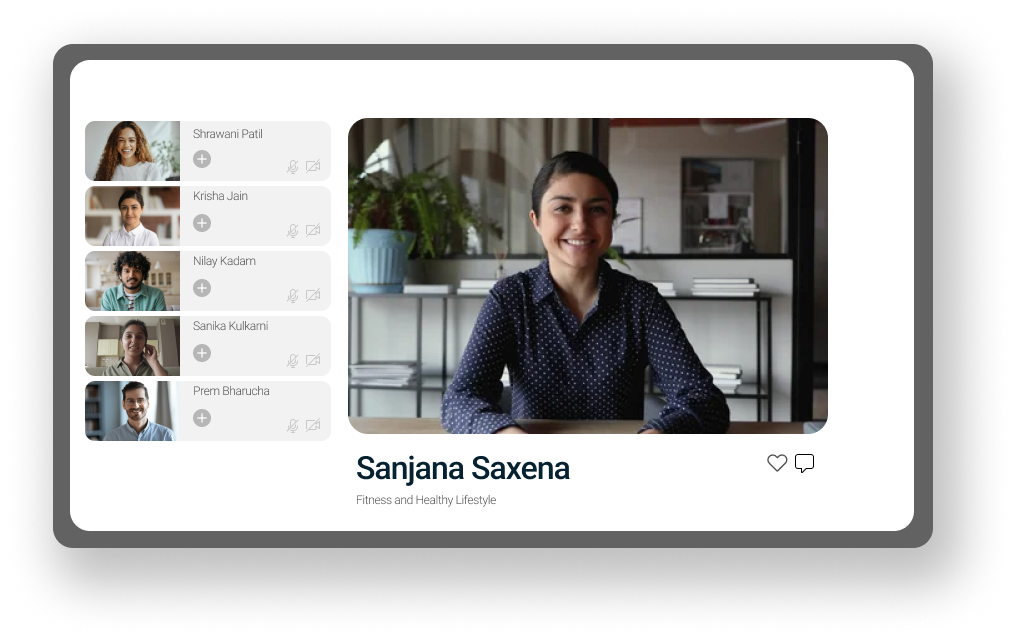
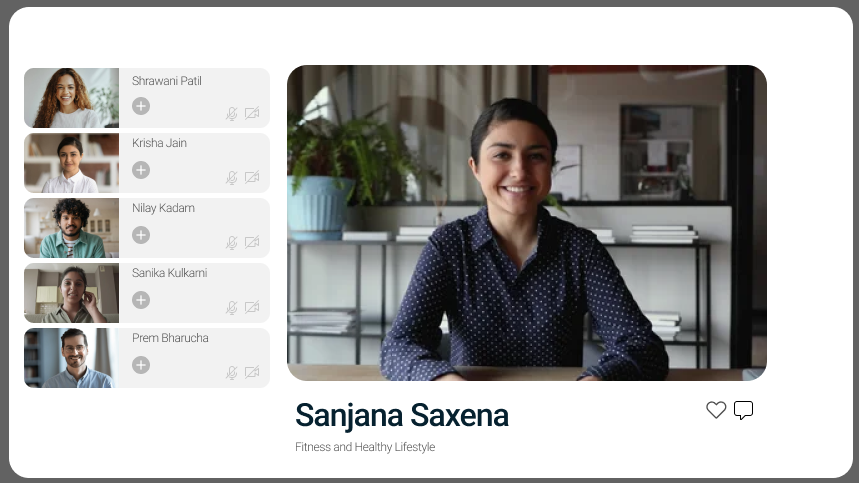
giving border and shadow

diff --git a/src/Components/Coaches/CoachProfileContainer.css b/src/Components/Coaches/CoachProfileContainer.css
@@ -8,6 +8,11 @@
   max-width: 1200px; /* Maintain the max width for large screens */
   padding: 10px; /* Add some padding for spacing */
 }
+.coach-profile-container img {
+  border: 5px solid #626262;
+  box-shadow: 0 0 20px black;
+  border-radius: 10px;
+}
 
 /* Large screens (1200px and below) */
 @media (max-width: 1200px) {

diff --git a/src/Components/Tab/Tab.css b/src/Components/Tab/Tab.css
@@ -28,6 +28,7 @@
   width: 50rem;
   border-radius: 10px;
   object-fit: cover;
+  box-shadow: 0 0 20px black;
 }
 
 .card-info h3 {
